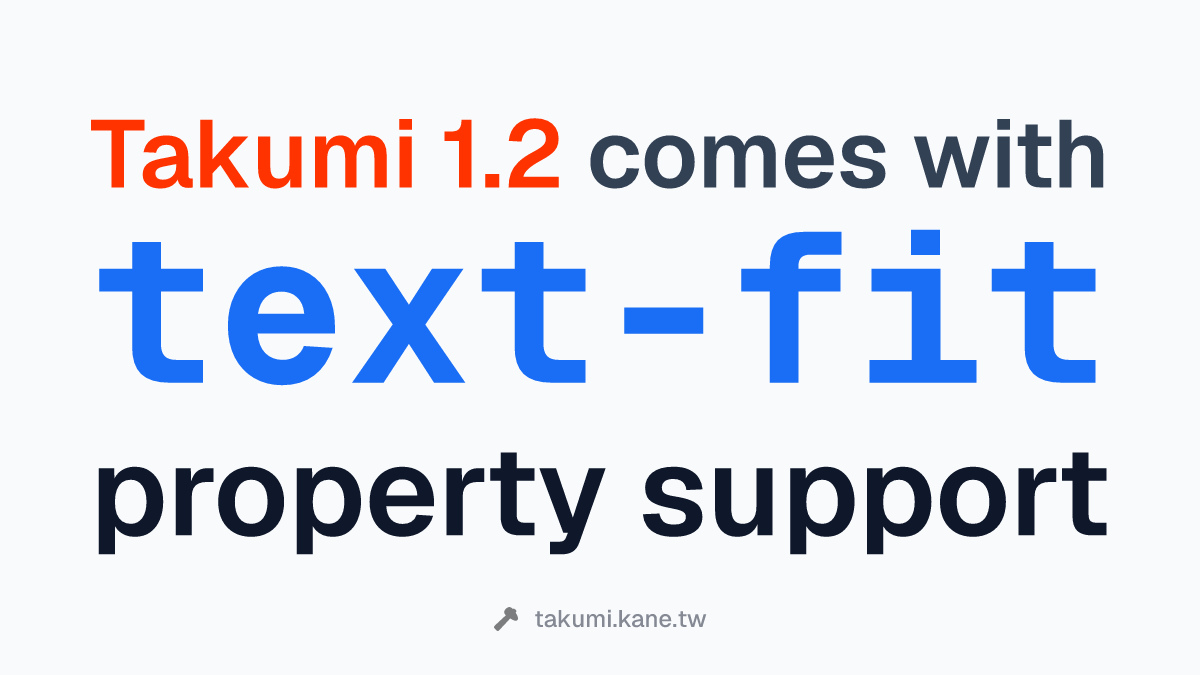
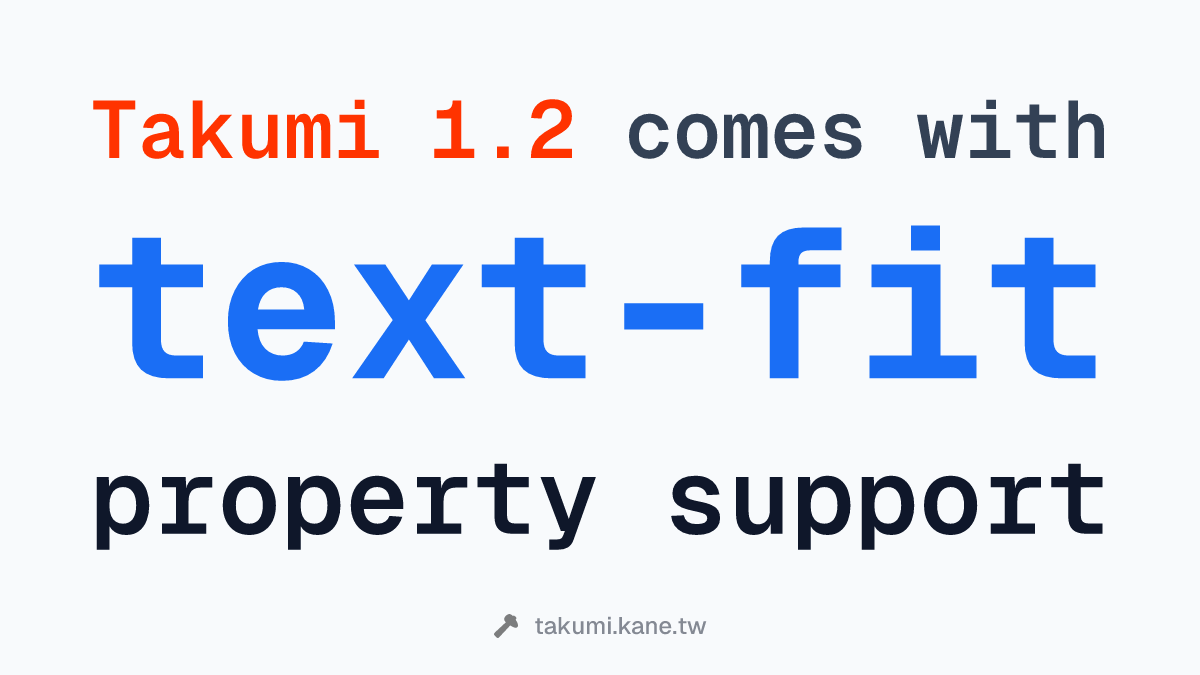
Example: update fixture font

diff --git a/example/twitter-images/components/text-fit.tsx b/example/twitter-images/components/text-fit.tsx
@@ -23,7 +23,7 @@ export default function TextFit() {
   return (
     <div tw="w-full h-full bg-[#f8fafc] text-slate-900 flex flex-col items-center justify-center">
       <div
-        tw="font-semibold leading-[1.05] text-balance w-[85%]"
+        tw="font-semibold leading-[1.2] text-balance w-[85%] font-mono"
         style={{
           // @ts-expect-error: text-fit is not yet in the type definitions
           textFit: "grow per-line-all",
@@ -35,13 +35,16 @@ export default function TextFit() {
           comes with
           <br />
         </span>
-        <span tw="text-[#1a6ef5] font-bold font-mono" style={{ whiteSpace: "nowrap" }}>
+        <span
+          tw="text-[#1a6ef5] font-bold bg-slate-400 border-gray-500 rounded-sm p-2"
+          style={{ whiteSpace: "nowrap" }}
+        >
           text-fit
           <br />
         </span>
         property support
       </div>
-      <div tw="absolute bottom-10 flex items-center justify-center gap-4 opacity-50 text-2xl font-medium">
+      <div tw="mt-12 -mb-12 flex items-center justify-center gap-4 opacity-50 text-2xl font-medium">
         <Logo />
         takumi.kane.tw
       </div>
